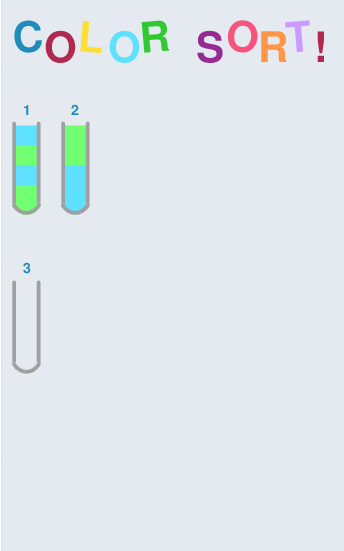
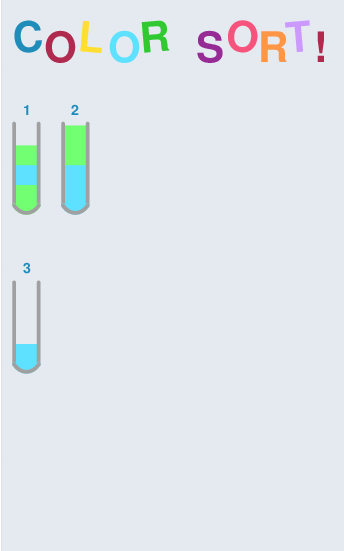
pics of console version for readme

Changed region(s): [[0.0291, 0.6171, 0.1163, 0.6788], [0.0291, 0.216, 0.1163, 0.2777]]

diff --git a/README.md b/README.md
@@ -36,6 +36,9 @@ Then you choose the bottles you'd like to move from and to from the drop down me
 #### The Console Version
 Since I didn't get the permission issues figured out with my website, the game will have to played using the command line.<br>
 You input the numbers of the bottles you'd like to move to and from separated by a space, and it will apply the move and update the jpg as described above. <br>
+![welcome](pics/initial.jpg)
+![welcome](pics/1stmove.jpg)
+
 
 #### The Gameplay Programs
 bin/play1 <input-file><br>
